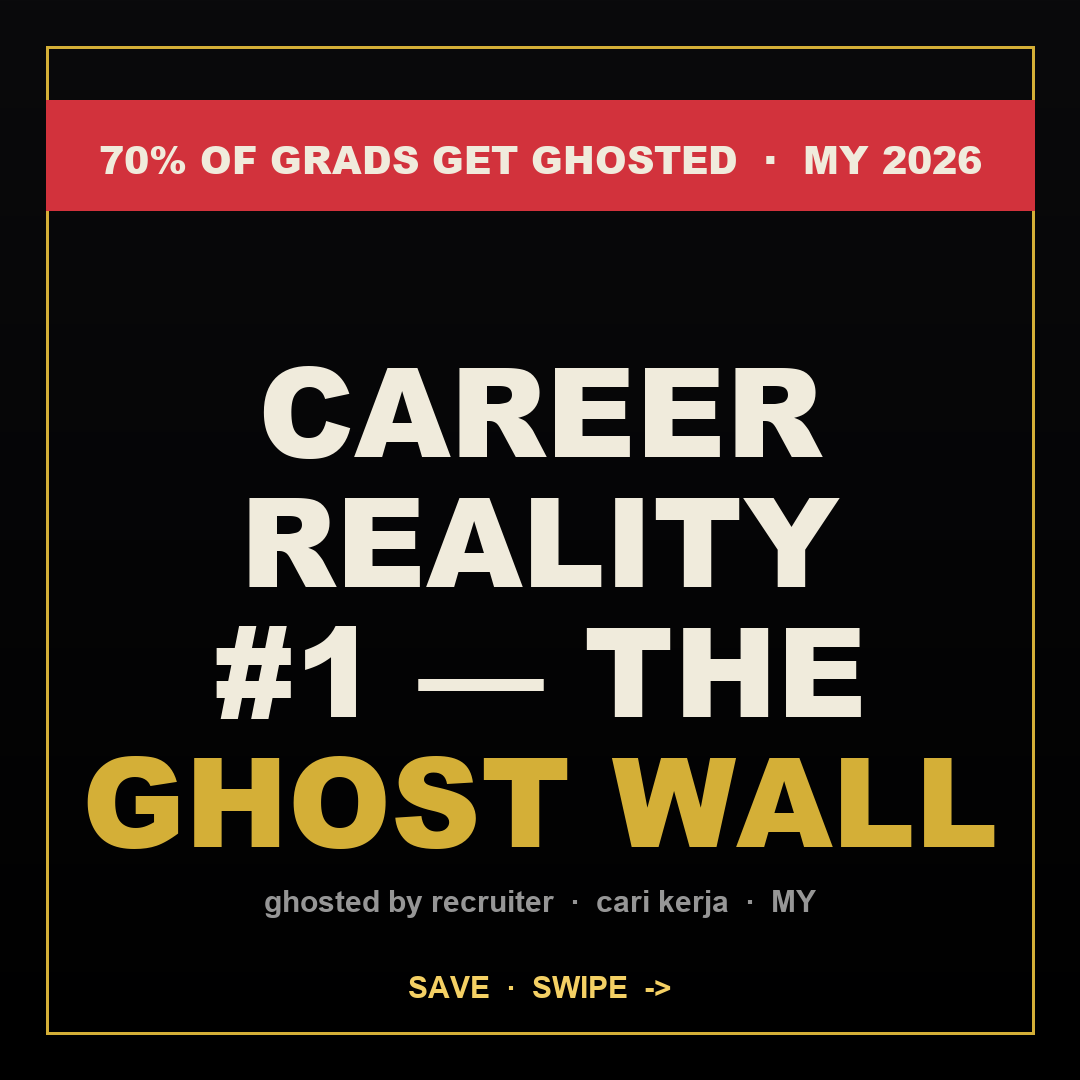
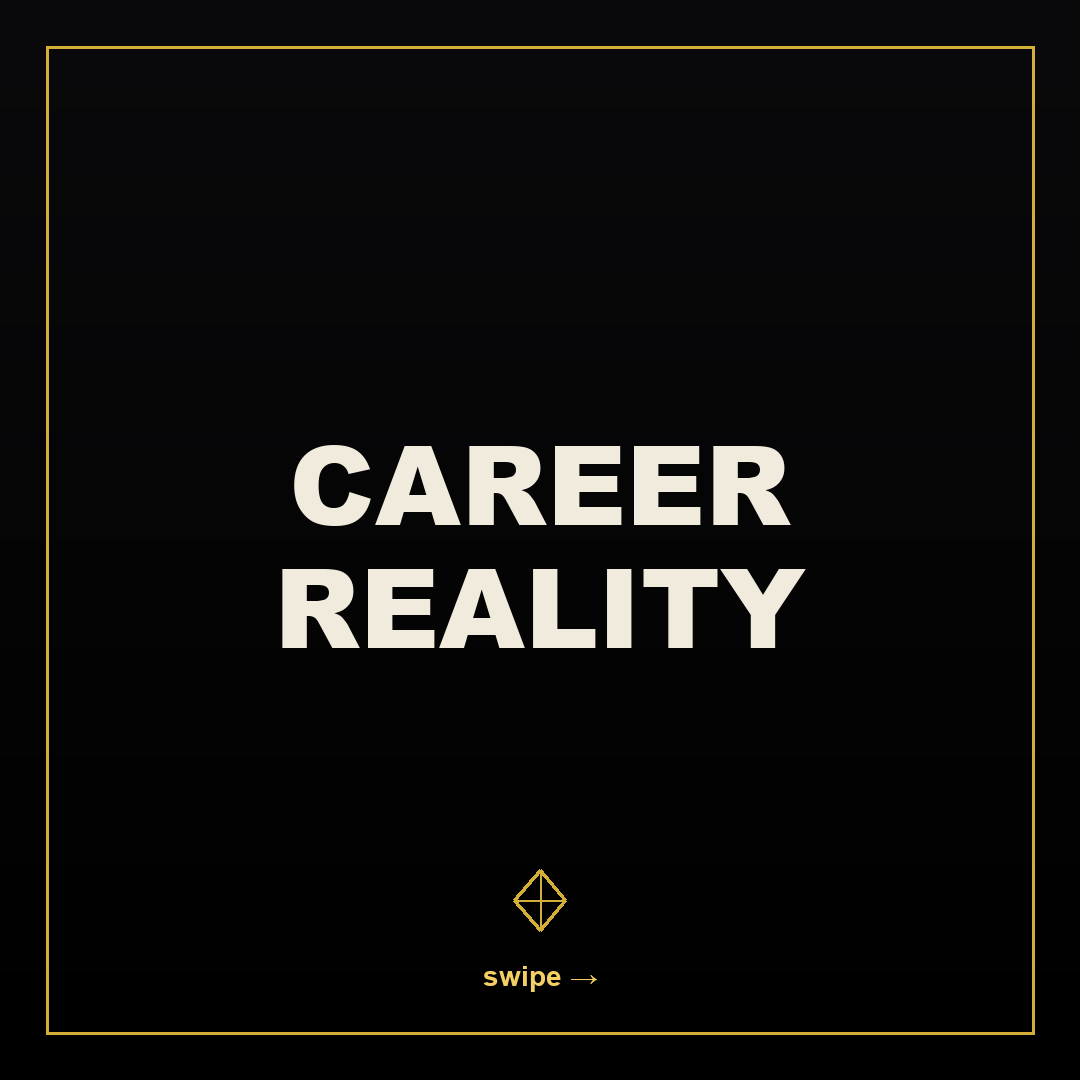
perf(mcal): mobile Tier 1.1 — decouple people/drafts/refills from cold paint
Mobile calendar's blocking fetch used to wait on activities + prospects
+ customers + drafts + refills before painting. On cold load that's
4-5 round-trips before the user sees anything.

Now: Phase 1 awaits activities only — the calendar grid paints as soon
as that lands. Phase 2 fires-and-forgets people/drafts/refills, then
silently re-renders so names + birthdays + "coming up" strip fill in.

Side benefits:
- Trimmed select(id, full_name, date_of_birth) shrinks the prospect /
  customer wire payload 5-10x vs. getAll()
- First-paint fallbacks (|| []) keep downstream code from throwing
  when Phase 2 data is still in flight
- Captured year/month prevents a stale re-render after the user
  swipes to a different month mid-fetch
- "[mcal-perf]" console.info markers expose the timing for further
  tuning

Also: compressed two May-content IG carousel PNGs (-30% / -64% size).

diff --git a/script.js b/script.js
@@ -4857,6 +4857,15 @@ In a production system, this would show the actual file contents.
             <div id="mcal-coming-host">${_mcalCachedComing || ''}</div>
         </div>`;
 
+        // ── Perf instrumentation (mobile Tier 0) ─────────────────
+        // Look for "[mcal-perf]" rows in the console to see where the cold
+        // mobile load is spending time.
+        const _mcalPerfT0 = performance.now();
+        const _mcalPerf = (label) => {
+            try { console.info(`[mcal-perf] ${label} +${Math.round(performance.now() - _mcalPerfT0)}ms`); } catch(_) {}
+        };
+        _mcalPerf('mcal:start');
+
         // ── Fetch month activities + supporting data ─────────────
         const monthStartStr = `${_mcalYear}-${String(_mcalMonth+1).padStart(2,'0')}-01`;
         const monthEndStr = `${_mcalYear}-${String(_mcalMonth+1).padStart(2,'0')}-${String(daysInMonth).padStart(2,'0')}`;
@@ -4928,17 +4937,53 @@ In a production system, this would show the actual file contents.
             _actsP = AppDataStore.queryAdvanced('activities', _buildActOpts(monthStartStr, monthEndStr)).catch(() => ({ data: [] }));
         }
 
-        const [actResult, allProspectsR, allCustomersR, draftsRaw, refillsRaw] = await Promise.all([
-            _actsP,
-            _needPeople  ? AppDataStore.getAll('prospects').catch(() => [])                          : Promise.resolve([]),
-            _needPeople  ? AppDataStore.getAll('customers').catch(() => [])                          : Promise.resolve([]),
-            _needDrafts  ? AppDataStore.getAll('follow_up_drafts').catch(() => [])                   : Promise.resolve([]),
-            _needRefills ? AppDataStore.query('refill_reminders', { status: 'pending' }).catch(() => []) : Promise.resolve([]),
-        ]);
+        // ── Mobile Tier 1.1: decouple people / drafts / refills ──
+        // Phase 1 (blocking): activities only. Drives the calendar grid —
+        // this is what the user is staring at. Even with no people data,
+        // activity cards still render via _mcalShortTitle's fallback to
+        // activity_type.
+        _mcalPerf('phase1:activities:start');
+        const actResult = await _actsP;
+        _mcalPerf('phase1:activities:done');
 
-        if (_needPeople)  { allPeople = [...(allProspectsR || []), ...(allCustomersR || [])]; _lsSet(_PEOPLE_KEY, allPeople); }
-        if (_needDrafts)  { cachedDrafts  = draftsRaw  || []; _lsSet(_DRAFTS_KEY,  cachedDrafts);  }
-        if (_needRefills) { cachedRefills = refillsRaw || []; _lsSet(_REFILLS_KEY, cachedRefills); }
+        // Phase 2 (fire-and-forget): people / drafts / refills.
+        // These power person-names on cards, the birthday markers, and the
+        // "Coming up" strip. On cold load they're missing — first paint
+        // falls back gracefully — then when they land we silently re-render.
+        // Trimmed select() shrinks the wire payload 5-10× vs. getAll() for
+        // wide prospect/customer schemas.
+        const _capturedYearMcal = _mcalYear, _capturedMonthMcal = _mcalMonth;
+        if (_needPeople || _needDrafts || _needRefills) {
+            Promise.all([
+                _needPeople  ? AppDataStore.queryAdvanced('prospects', { select: 'id,full_name,date_of_birth', limit: 50000, countMode: null }).then(r => r?.data || []).catch(() => []) : Promise.resolve(null),
+                _needPeople  ? AppDataStore.queryAdvanced('customers', { select: 'id,full_name,date_of_birth', limit: 50000, countMode: null }).then(r => r?.data || []).catch(() => []) : Promise.resolve(null),
+                _needDrafts  ? AppDataStore.getAll('follow_up_drafts').catch(() => []) : Promise.resolve(null),
+                _needRefills ? AppDataStore.query('refill_reminders', { status: 'pending' }).catch(() => []) : Promise.resolve(null),
+            ]).then(([p, c, d, r]) => {
+                _mcalPerf('phase2:people-drafts-refills:done');
+                if (p !== null || c !== null) {
+                    const fresh = [...(p || []), ...(c || [])];
+                    _lsSet(_PEOPLE_KEY, fresh);
+                }
+                if (d !== null) _lsSet(_DRAFTS_KEY,  d);
+                if (r !== null) _lsSet(_REFILLS_KEY, r);
+                // Silent re-render so names + birthdays + coming-up strip
+                // fill in. Guarded so we don't repaint a month the user has
+                // already swiped away from.
+                const vp = document.getElementById('content-viewport');
+                if (vp && vp.classList.contains('mcal-active') &&
+                    _capturedYearMcal === _mcalYear && _capturedMonthMcal === _mcalMonth) {
+                    showMobileCalendarView(vp).catch(() => {});
+                }
+            }).catch(() => {});
+        }
+
+        // First-paint fallbacks: ensure downstream code handles missing data
+        // without throwing. On cold load these are empty; the Phase 2 re-render
+        // swaps in real values.
+        allPeople     = allPeople     || [];
+        cachedDrafts  = cachedDrafts  || [];
+        cachedRefills = cachedRefills || [];
         const draftsR  = cachedDrafts;
         const refillsR = cachedRefills;
 
@@ -5037,6 +5082,7 @@ In a production system, this would show the actual file contents.
         if (grid) {
             grid.innerHTML = cells.join('');
             _lsSet(_mcalSnapKey, cells.join(''));
+            _mcalPerf('grid-painted');
         }
 
         // ── Coming-up strip ─────────────────────────────────────
@@ -14131,23 +14177,47 @@ function _wireLoginBtn() {
         AppDataStore.getAll('users');
         AppDataStore.getAll('names');
 
-        // Fire all section renders IMMEDIATELY. Each section paints as soon
-        // as its own data arrives, so the user sees progressive fill-in.
-        // We don't await these — the caller (navigateTo) returns immediately.
-        renderCalendar().catch(e => console.warn('renderCalendar failed:', e));
+        // ── Tier 1.2/1.3: critical path first, sidebars after ──
+        // Critical path = the calendar grid + today's activity list. These
+        // are what the user is waiting to see.
+        console.time('[cal-perf] showCalendarView:critical');
+        renderCalendar()
+            .catch(e => console.warn('renderCalendar failed:', e))
+            .finally(() => console.timeEnd('[cal-perf] showCalendarView:critical'));
         renderTodayActivities().catch(e => console.warn('renderTodayActivities failed:', e));
-        renderBirthdaySection().catch(e => console.warn('renderBirthdaySection failed:', e));
-        renderRefillReminders().catch(e => console.warn('renderRefillReminders failed:', e));
-        renderPendingCpsIntakes().catch(e => console.warn('renderPendingCpsIntakes failed:', e));
-        _migrateFollowUpTemplateColumns().catch(e => console.warn('Follow-up template migration failed:', e));
-        Promise.all([
-            dispatchBirthdayTriggers(),
-            dispatchProactiveEventInvites(),
-            dispatchPendingSolutionReminders()
-        ]).then(() => Promise.all([
-            renderFollowUpReminders(),
-            renderPendingSolutionsWidget()
-        ])).catch(e => console.warn('Follow-up reminders failed:', e));
+
+        // Secondary panels (right glance, birthdays, refills, follow-up
+        // reminders) and the schema migration are deferred so they don't
+        // compete with the grid for network + main-thread time. The 100 ms
+        // delay lets the grid's first paint settle before sidebars start
+        // fetching; on a slow connection the user perceives "the calendar
+        // appeared, then the sidebars filled in" instead of "everything
+        // hung for 10 s".
+        const _runSecondary = () => {
+            renderBirthdaySection().catch(e => console.warn('renderBirthdaySection failed:', e));
+            renderRefillReminders().catch(e => console.warn('renderRefillReminders failed:', e));
+            renderPendingCpsIntakes().catch(e => console.warn('renderPendingCpsIntakes failed:', e));
+            Promise.all([
+                dispatchBirthdayTriggers(),
+                dispatchProactiveEventInvites(),
+                dispatchPendingSolutionReminders()
+            ]).then(() => Promise.all([
+                renderFollowUpReminders(),
+                renderPendingSolutionsWidget()
+            ])).catch(e => console.warn('Follow-up reminders failed:', e));
+        };
+        setTimeout(_runSecondary, 100);
+
+        // Tier 1.3: one-time schema check moved to idle time. requestIdleCallback
+        // falls back to a 1.5 s setTimeout in browsers that don't support it
+        // (e.g. older Safari). This is a DDL probe — no reason it should run on
+        // the user-visible critical path of a calendar mount.
+        const _idle = (cb) => (typeof requestIdleCallback === 'function')
+            ? requestIdleCallback(cb, { timeout: 5000 })
+            : setTimeout(cb, 1500);
+        _idle(() => {
+            _migrateFollowUpTemplateColumns().catch(e => console.warn('Follow-up template migration failed:', e));
+        });
 
         // Show Special Program progress popup (once per session, for participating agents)
         // Deferred so it doesn't block the calendar paint.
@@ -15707,6 +15777,14 @@ function _wireLoginBtn() {
 
     const _renderCalendarImpl = async () => {
         const myToken = ++_renderCalendarToken;
+        // ── Perf instrumentation (Tier 0). Cheap, observable in DevTools.
+        // Look for "[cal-perf]" rows in the console — they print where the
+        // cold-load time is going. Remove once cold-load p50 is acceptable.
+        const _calPerfT0 = performance.now();
+        const _calPerf = (label) => {
+            try { console.info(`[cal-perf] ${label} +${Math.round(performance.now() - _calPerfT0)}ms`); } catch(_) {}
+        };
+        _calPerf('renderCalendar:start');
         updateMonthHeader(_currentDate);
 
         const header = document.getElementById('calendar-days-header');
@@ -15719,18 +15797,23 @@ function _wireLoginBtn() {
         // Snapshot restore — if we already rendered this month, show the cached
         // HTML instantly so the user sees their calendar with zero wait.
         // The RPC fetch continues below; if fresh data differs we swap quietly.
+        // Tier 1.4: TTL extended 30m → 8h to match mobile (mcal-snap), and SWR
+        // pattern — stale snapshot still paints instantly, fresh data swaps in
+        // silently when it arrives. Stale beats blank.
         const _calSnapKey = `cal-snap-${_currentDate.getFullYear()}-${_currentDate.getMonth()}`;
+        const _CAL_SNAP_TTL_MS = 8 * 60 * 60 * 1000; // 8h
         const _calSnap = (() => {
             try {
                 const raw = localStorage.getItem(_calSnapKey);
                 if (!raw) return null;
                 const { ts, html } = JSON.parse(raw);
-                if (!ts || Date.now() - ts > 30 * 60 * 1000) return null; // 30-min TTL
+                if (!ts || Date.now() - ts > _CAL_SNAP_TTL_MS) return null;
                 return html;
             } catch (_) { return null; }
         })();
         if (_calSnap) {
             grid.innerHTML = _calSnap; // instant paint — no dim needed
+            _calPerf('snapshot-painted');
         } else {
             // First-ever render of this month: paint a skeleton grid (Phase N)
             // so the user sees structured placeholders instead of a blank/dim
@@ -15742,6 +15825,7 @@ function _wireLoginBtn() {
                        '<span class="skeleton-block skel-cell-row short"></span></div>';
             }
             grid.innerHTML = _sk;
+            _calPerf('skeleton-painted');
         }
 
         try {
@@ -15812,21 +15896,24 @@ function _wireLoginBtn() {
             p_is_admin:     isAdmin,
         };
 
-        // Two parallel RPCs replace the previous 6 round-trips
-        // (activities + events + users + co-agent JSONB + prospects + customers).
-        // The light call drives the visible grid; the hot call warms the
-        // detail-modal cache. We tolerate the hot call failing — the calendar
-        // still renders, taps just incur a normal getById on click.
+        // Tier 1.1: render the grid as soon as the LIGHT RPC returns. The hot
+        // RPC only warms a click-cache for the detail modal — there's no reason
+        // to make the user wait for it. Previously a Promise.all gate meant a
+        // slow hotRes added its full latency to the time-to-grid-paint.
         // NOTE: supabase-js v2 .rpc() returns a thenable PostgrestFilterBuilder,
-        // not a real Promise — .catch() on it throws "is not a function". Wrap
-        // in Promise.resolve() to convert to a real Promise before catching.
-        const [lightRes, hotRes] = await Promise.all([
-            window.supabase.rpc('get_calendar_window', lightParams),
-            Promise.resolve(window.supabase.rpc('get_calendar_hot_details', hotParams)).catch(e => {
-                console.warn('[calendar] hot warm-up failed:', e?.message || e);
-                return { data: [], error: e };
-            }),
-        ]);
+        // not a real Promise — wrap in Promise.resolve() before .catch/.then.
+        _calPerf('rpc:light:start');
+        const lightRes = await window.supabase.rpc('get_calendar_window', lightParams);
+        _calPerf('rpc:light:done');
+        // Fire-and-forget hot RPC. Once it lands we drop the rows into
+        // _hotActivityCache so subsequent activity-card taps still feel instant.
+        Promise.resolve(window.supabase.rpc('get_calendar_hot_details', hotParams))
+            .then(hotRes => {
+                if (hotRes && hotRes.data && hotRes.data.length > 0) {
+                    for (const a of hotRes.data) _hotActivityCache.set(String(a.id), a);
+                }
+            })
+            .catch(e => { console.warn('[calendar] hot warm-up failed:', e?.message || e); });
 
         // Transition fallback: if the calendar_perf_2026-05-03 migration hasn't
         // been applied to this DB yet, the RPC won't exist (PG code 42883). Fall
@@ -15856,10 +15943,9 @@ function _wireLoginBtn() {
             activities = window._mergeOptimisticActivities(activities, rangeStart, monthEnd);
         }
 
-        // Refresh hot cache from this render's hot fetch.
-        if (hotRes && hotRes.data && hotRes.data.length > 0) {
-            for (const a of hotRes.data) _hotActivityCache.set(String(a.id), a);
-        }
+        // Hot cache is populated by the fire-and-forget block above (Tier 1.1)
+        // — no synchronous handling here. Detail-modal click incurs at most one
+        // extra getById round-trip if the hot RPC hasn't landed yet.
 
         // Orphan EVENT filter: drop activities of type EVENT that have an event_id
         // but NO resolvable title. Two title sources exist:
@@ -16067,7 +16153,11 @@ function _wireLoginBtn() {
 
         // Discard if a newer render started while this one's fetches were in flight.
         if (myToken !== _renderCalendarToken) return;
-        grid.innerHTML = html;
+        // Tier 1.4 SWR: only swap the painted snapshot if the new HTML actually
+        // differs. Avoids a perceptible re-paint flash when the cached snapshot
+        // already matches the fresh data (the common case for unchanged days).
+        if (grid.innerHTML !== html) grid.innerHTML = html;
+        _calPerf('grid-painted');
 
         // Persist this render to localStorage so future navigations back to
         // this month paint instantly — survives tab close on Android.